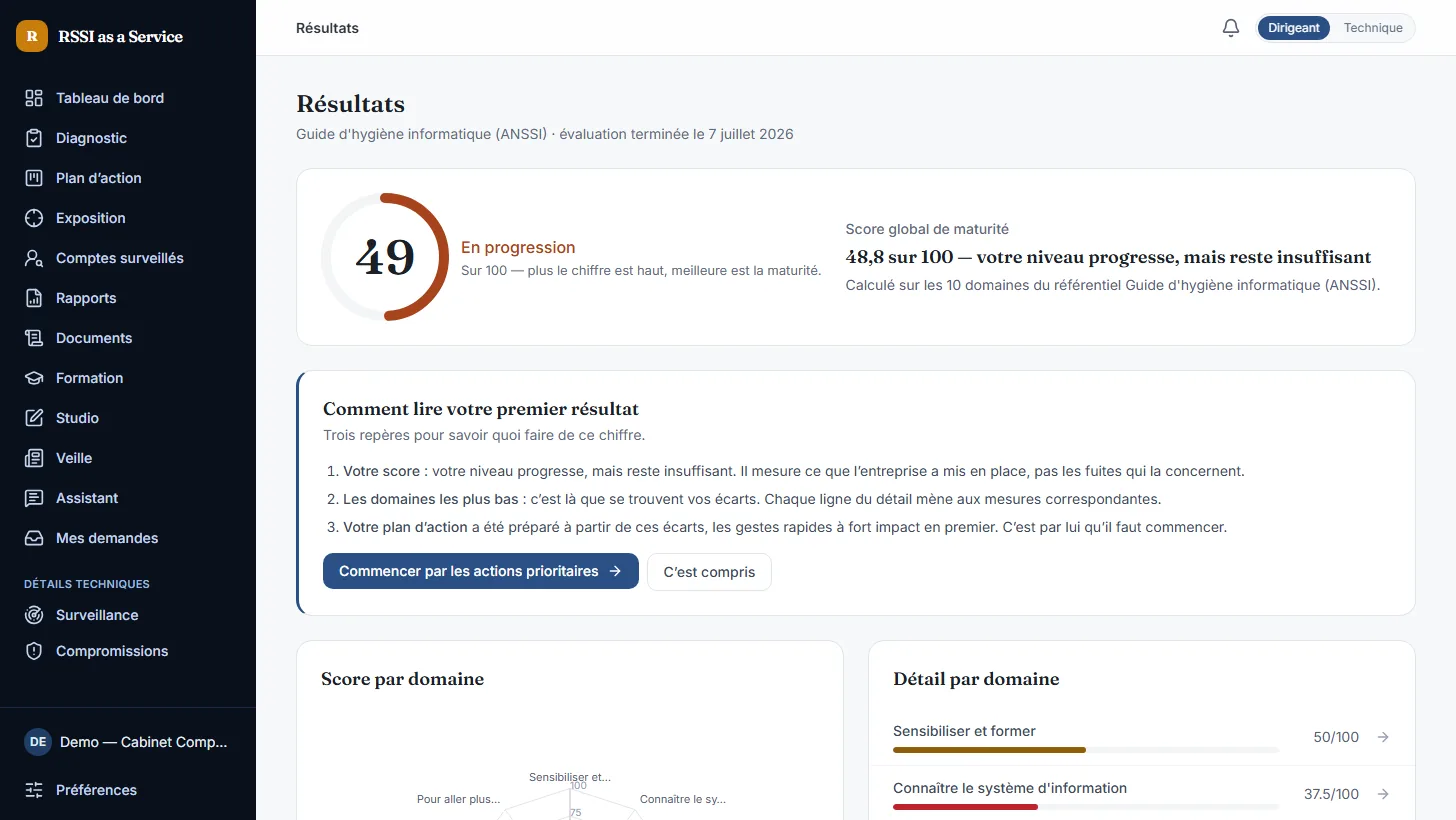
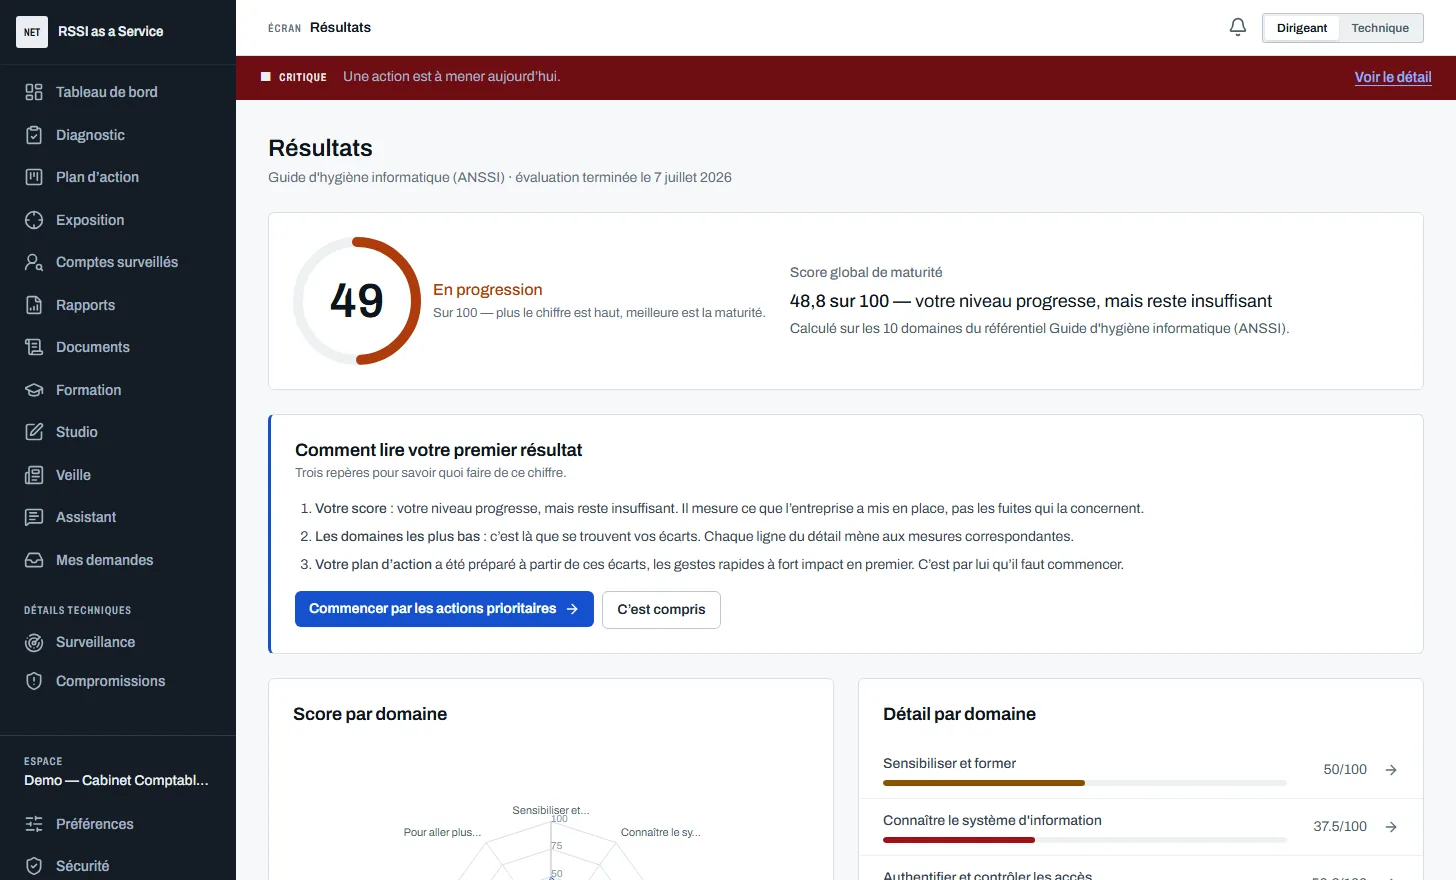
refonte(captures): les visuels de la vitrine montrent l'interface refondue
Les quatre captures montraient encore l'ancienne interface : la vitrine
promettait un produit qui n'existait plus. Reprises sur le client de
DEMONSTRATION, jamais un vrai client.

Le tableau de bord et le diagnostic sont pris en profil Dirigeant,
l'exposition et la formation en profil Technique : la vitrine montre les
DEUX surfaces du produit, pas deux fois la meme.

1456 x 880 px, WebP qualite 82 : 280 ko au total contre 583 ko en PNG, et
toutes en chargement differe.

diff --git a/frontend/public/screenshots/README.md b/frontend/public/screenshots/README.md
@@ -98,3 +98,17 @@ substitut CSS reste affiché à sa place — c'est le comportement prévu.
 
 **À recapturer après la refonte de l'espace client**, qui vient après la
 vitrine : ces quatre images montrent encore l'interface d'avant.
+
+## Refaites apres la refonte complete (22/09/2026)
+
+Les quatre captures ont ete reprises sur l'interface refondue (ADR-042), avec
+le client de DEMONSTRATION, par `e2e/zz-captures-produit2.spec.js` (non
+commite : il porte un mot de passe en clair).
+
+Le tableau de bord et le diagnostic sont pris en profil **Dirigeant**,
+l'exposition et la formation en profil **Technique** : la vitrine montre les
+deux surfaces du produit, pas deux fois la meme.
+
+Format : 1456 x 880 px, converties en WebP qualite 82 (269 ko au total
+contre 583 ko en PNG). Le cadre de navigateur les affiche au plus a 728 px,
+d'ou le facteur deux pour les ecrans a forte densite.
